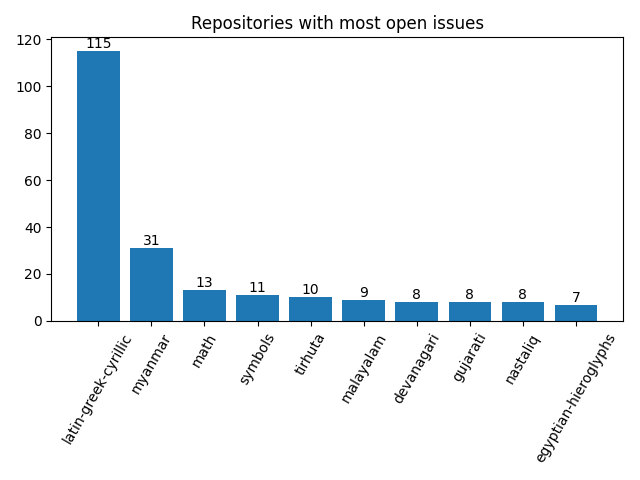
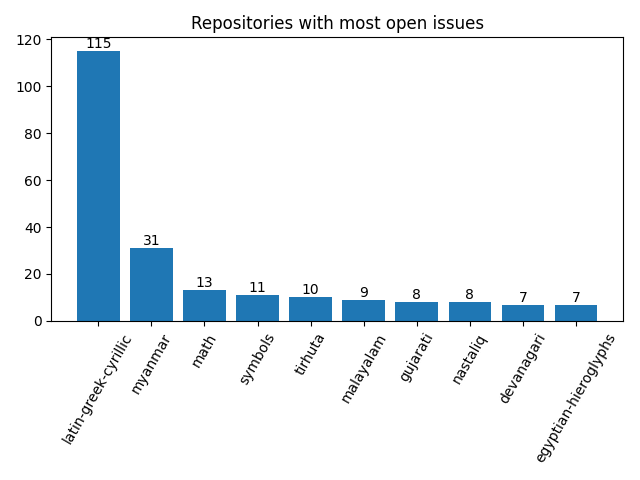
Apply automatic changes

diff --git a/docs/analytics.html b/docs/analytics.html
@@ -69,8 +69,8 @@ td .material-icons { display:inline-flex; vertical-align: top; font-size:1.1rem;
 						</tr>
 						<tr>
 							<td>Jan</td>
-							<td>15</td>
-							<td>3</td>
+							<td>20</td>
+							<td>5</td>
 						</tr>
 					</table>
 				</div>
@@ -124,12 +124,6 @@ td .material-icons { display:inline-flex; vertical-align: top; font-size:1.1rem;
 						</tr>
 						<tr>
 							<td>
-								<a href="http://github.com/notofonts/devanagari/issues">devanagari</a>
-							</td>
-							<td>8</td>
-						</tr>
-						<tr>
-							<td>
 								<a href="http://github.com/notofonts/gujarati/issues">gujarati</a>
 							</td>
 							<td>8</td>
@@ -139,6 +133,12 @@ td .material-icons { display:inline-flex; vertical-align: top; font-size:1.1rem;
 								<a href="http://github.com/notofonts/nastaliq/issues">nastaliq</a>
 							</td>
 							<td>8</td>
+						</tr>
+						<tr>
+							<td>
+								<a href="http://github.com/notofonts/devanagari/issues">devanagari</a>
+							</td>
+							<td>7</td>
 						</tr>
 						<tr>
 							<td>
@@ -161,13 +161,13 @@ td .material-icons { display:inline-flex; vertical-align: top; font-size:1.1rem;
 				<tr>
 					<td>1</td>
 					<td>
-						<a href="http://github.com/notofonts/armenian/issues">armenian</a>,  						<a href="http://github.com/notofonts/bamum/issues">bamum</a>,  						<a href="http://github.com/notofonts/brahmi/issues">brahmi</a>,  						<a href="http://github.com/notofonts/canadian-aboriginal/issues">canadian-aboriginal</a>,  						<a href="http://github.com/notofonts/chakma/issues">chakma</a>,  						<a href="http://github.com/notofonts/chorasmian/issues">chorasmian</a>,  						<a href="http://github.com/notofonts/deseret/issues">deseret</a>,  						<a href="http://github.com/notofonts/dogra/issues">dogra</a>,  						<a href="http://github.com/notofonts/duployan/issues">duployan</a>,  						<a href="http://github.com/notofonts/elbasan/issues">elbasan</a>,  						<a href="http://github.com/notofonts/ethiopic/issues">ethiopic</a>,  						<a href="http://github.com/notofonts/georgian/issues">georgian</a>,  						<a href="http://github.com/notofonts/glagolitic/issues">glagolitic</a>,  						<a href="http://github.com/notofonts/hanunoo/issues">hanunoo</a>,  						<a href="http://github.com/notofonts/kharoshthi/issues">kharoshthi</a>,  						<a href="http://github.com/notofonts/khudawadi/issues">khudawadi</a>,  						<a href="http://github.com/notofonts/lydian/issues">lydian</a>,  						<a href="http://github.com/notofonts/meetei-mayek/issues">meetei-mayek</a>,  						<a href="http://github.com/notofonts/miao/issues">miao</a>,  						<a href="http://github.com/notofonts/mongolian/issues">mongolian</a>,  						<a href="http://github.com/notofonts/multani/issues">multani</a>,  						<a href="http://github.com/notofonts/music/issues">music</a>,  						<a href="http://github.com/notofonts/nko/issues">nko</a>,  						<a href="http://github.com/notofonts/old-italic/issues">old-italic</a>,  						<a href="http://github.com/notofonts/oriya/issues">oriya</a>,  						<a href="http://github.com/notofonts/pahawh-hmong/issues">pahawh-hmong</a>,  						<a href="http://github.com/notofonts/phags-pa/issues">phags-pa</a>,  						<a href="http://github.com/notofonts/rejang/issues">rejang</a>,  						<a href="http://github.com/notofonts/saurashtra/issues">saurashtra</a>,  						<a href="http://github.com/notofonts/sogdian/issues">sogdian</a>,  						<a href="http://github.com/notofonts/sundanese/issues">sundanese</a>,  						<a href="http://github.com/notofonts/tai-le/issues">tai-le</a>,  						<a href="http://github.com/notofonts/tai-tham/issues">tai-tham</a>,  						<a href="http://github.com/notofonts/takri/issues">takri</a>,  						<a href="http://github.com/notofonts/tangsa/issues">tangsa</a>,  						<a href="http://github.com/notofonts/tangut/issues">tangut</a> 
+						<a href="http://github.com/notofonts/armenian/issues">armenian</a>,  						<a href="http://github.com/notofonts/bamum/issues">bamum</a>,  						<a href="http://github.com/notofonts/brahmi/issues">brahmi</a>,  						<a href="http://github.com/notofonts/canadian-aboriginal/issues">canadian-aboriginal</a>,  						<a href="http://github.com/notofonts/chakma/issues">chakma</a>,  						<a href="http://github.com/notofonts/chorasmian/issues">chorasmian</a>,  						<a href="http://github.com/notofonts/deseret/issues">deseret</a>,  						<a href="http://github.com/notofonts/dogra/issues">dogra</a>,  						<a href="http://github.com/notofonts/elbasan/issues">elbasan</a>,  						<a href="http://github.com/notofonts/ethiopic/issues">ethiopic</a>,  						<a href="http://github.com/notofonts/georgian/issues">georgian</a>,  						<a href="http://github.com/notofonts/glagolitic/issues">glagolitic</a>,  						<a href="http://github.com/notofonts/hanunoo/issues">hanunoo</a>,  						<a href="http://github.com/notofonts/kharoshthi/issues">kharoshthi</a>,  						<a href="http://github.com/notofonts/khudawadi/issues">khudawadi</a>,  						<a href="http://github.com/notofonts/lao/issues">lao</a>,  						<a href="http://github.com/notofonts/lydian/issues">lydian</a>,  						<a href="http://github.com/notofonts/meetei-mayek/issues">meetei-mayek</a>,  						<a href="http://github.com/notofonts/miao/issues">miao</a>,  						<a href="http://github.com/notofonts/mongolian/issues">mongolian</a>,  						<a href="http://github.com/notofonts/multani/issues">multani</a>,  						<a href="http://github.com/notofonts/music/issues">music</a>,  						<a href="http://github.com/notofonts/nko/issues">nko</a>,  						<a href="http://github.com/notofonts/old-italic/issues">old-italic</a>,  						<a href="http://github.com/notofonts/pahawh-hmong/issues">pahawh-hmong</a>,  						<a href="http://github.com/notofonts/phags-pa/issues">phags-pa</a>,  						<a href="http://github.com/notofonts/rejang/issues">rejang</a>,  						<a href="http://github.com/notofonts/saurashtra/issues">saurashtra</a>,  						<a href="http://github.com/notofonts/sogdian/issues">sogdian</a>,  						<a href="http://github.com/notofonts/sundanese/issues">sundanese</a>,  						<a href="http://github.com/notofonts/tai-le/issues">tai-le</a>,  						<a href="http://github.com/notofonts/tai-tham/issues">tai-tham</a>,  						<a href="http://github.com/notofonts/takri/issues">takri</a>,  						<a href="http://github.com/notofonts/tangsa/issues">tangsa</a>,  						<a href="http://github.com/notofonts/tangut/issues">tangut</a> 
 					</td>
 				</tr>
 				<tr>
 					<td>2</td>
 					<td>
-						<a href="http://github.com/notofonts/coptic/issues">coptic</a>,  						<a href="http://github.com/notofonts/grantha/issues">grantha</a>,  						<a href="http://github.com/notofonts/khojki/issues">khojki</a>,  						<a href="http://github.com/notofonts/old-hungarian-ui/issues">old-hungarian-ui</a>,  						<a href="http://github.com/notofonts/old-turkic/issues">old-turkic</a>,  						<a href="http://github.com/notofonts/siddham/issues">siddham</a>,  						<a href="http://github.com/notofonts/sign-writing/issues">sign-writing</a>,  						<a href="http://github.com/notofonts/tagalog/issues">tagalog</a>,  						<a href="http://github.com/notofonts/tamil/issues">tamil</a>,  						<a href="http://github.com/notofonts/tifinagh/issues">tifinagh</a> 
+						<a href="http://github.com/notofonts/coptic/issues">coptic</a>,  						<a href="http://github.com/notofonts/duployan/issues">duployan</a>,  						<a href="http://github.com/notofonts/grantha/issues">grantha</a>,  						<a href="http://github.com/notofonts/khojki/issues">khojki</a>,  						<a href="http://github.com/notofonts/old-hungarian-ui/issues">old-hungarian-ui</a>,  						<a href="http://github.com/notofonts/old-turkic/issues">old-turkic</a>,  						<a href="http://github.com/notofonts/oriya/issues">oriya</a>,  						<a href="http://github.com/notofonts/siddham/issues">siddham</a>,  						<a href="http://github.com/notofonts/sign-writing/issues">sign-writing</a>,  						<a href="http://github.com/notofonts/tagalog/issues">tagalog</a>,  						<a href="http://github.com/notofonts/tamil/issues">tamil</a>,  						<a href="http://github.com/notofonts/tifinagh/issues">tifinagh</a> 
 					</td>
 				</tr>
 				<tr>
@@ -191,19 +191,19 @@ td .material-icons { display:inline-flex; vertical-align: top; font-size:1.1rem;
 				<tr>
 					<td>6</td>
 					<td>
-						<a href="http://github.com/notofonts/arabic/issues">arabic</a>,  						<a href="http://github.com/notofonts/bengali/issues">bengali</a>,  						<a href="http://github.com/notofonts/dives-akuru/issues">dives-akuru</a>,  						<a href="http://github.com/notofonts/modi/issues">modi</a>,  						<a href="http://github.com/notofonts/old-hungarian/issues">old-hungarian</a>,  						<a href="http://github.com/notofonts/syriac/issues">syriac</a> 
+						<a href="http://github.com/notofonts/arabic/issues">arabic</a>,  						<a href="http://github.com/notofonts/bengali/issues">bengali</a>,  						<a href="http://github.com/notofonts/dives-akuru/issues">dives-akuru</a>,  						<a href="http://github.com/notofonts/modi/issues">modi</a>,  						<a href="http://github.com/notofonts/syriac/issues">syriac</a> 
 					</td>
 				</tr>
 				<tr>
 					<td>7</td>
 					<td>
-						<a href="http://github.com/notofonts/egyptian-hieroglyphs/issues">egyptian-hieroglyphs</a>,  						<a href="http://github.com/notofonts/hebrew/issues">hebrew</a>,  						<a href="http://github.com/notofonts/kaithi/issues">kaithi</a>,  						<a href="http://github.com/notofonts/kannada/issues">kannada</a> 
+						<a href="http://github.com/notofonts/devanagari/issues">devanagari</a>,  						<a href="http://github.com/notofonts/egyptian-hieroglyphs/issues">egyptian-hieroglyphs</a>,  						<a href="http://github.com/notofonts/hebrew/issues">hebrew</a>,  						<a href="http://github.com/notofonts/kaithi/issues">kaithi</a>,  						<a href="http://github.com/notofonts/kannada/issues">kannada</a>,  						<a href="http://github.com/notofonts/old-hungarian/issues">old-hungarian</a> 
 					</td>
 				</tr>
 				<tr>
 					<td>8</td>
 					<td>
-						<a href="http://github.com/notofonts/devanagari/issues">devanagari</a>,  						<a href="http://github.com/notofonts/gujarati/issues">gujarati</a>,  						<a href="http://github.com/notofonts/nastaliq/issues">nastaliq</a> 
+						<a href="http://github.com/notofonts/gujarati/issues">gujarati</a>,  						<a href="http://github.com/notofonts/nastaliq/issues">nastaliq</a> 
 					</td>
 				</tr>
 				<tr>
@@ -234,11 +234,11 @@ td .material-icons { display:inline-flex; vertical-align: top; font-size:1.1rem;
 
 									<a href="http://github.com/notofonts/malayalam/issues">malayalam</a>: 9, 
 
-									<a href="http://github.com/notofonts/devanagari/issues">devanagari</a>: 8, 
-
 									<a href="http://github.com/notofonts/gujarati/issues">gujarati</a>: 8, 
 
 									<a href="http://github.com/notofonts/nastaliq/issues">nastaliq</a>: 8, 
+
+									<a href="http://github.com/notofonts/devanagari/issues">devanagari</a>: 7, 
 
 									<a href="http://github.com/notofonts/hebrew/issues">hebrew</a>: 7, 
 
@@ -252,11 +252,11 @@ td .material-icons { display:inline-flex; vertical-align: top; font-size:1.1rem;
 
 									<a href="http://github.com/notofonts/telugu/issues">telugu</a>: 4, 
 
+									<a href="http://github.com/notofonts/oriya/issues">oriya</a>: 2, 
+
 									<a href="http://github.com/notofonts/tamil/issues">tamil</a>: 2, 
 
-									<a href="http://github.com/notofonts/armenian/issues">armenian</a>: 1, 
-
-									<a href="http://github.com/notofonts/oriya/issues">oriya</a>: 1
+									<a href="http://github.com/notofonts/armenian/issues">armenian</a>: 1
 							</td>
 						</tr>
 						<tr>
@@ -298,6 +298,8 @@ td .material-icons { display:inline-flex; vertical-align: top; font-size:1.1rem;
 
 									<a href="http://github.com/notofonts/coptic/issues">coptic</a>: 2, 
 
+									<a href="http://github.com/notofonts/duployan/issues">duployan</a>: 2, 
+
 									<a href="http://github.com/notofonts/khojki/issues">khojki</a>: 2, 
 
 									<a href="http://github.com/notofonts/siddham/issues">siddham</a>: 2, 
@@ -314,9 +316,9 @@ td .material-icons { display:inline-flex; vertical-align: top; font-size:1.1rem;
 
 									<a href="http://github.com/notofonts/chakma/issues">chakma</a>: 1, 
 
-									<a href="http://github.com/notofonts/duployan/issues">duployan</a>: 1, 
-
 									<a href="http://github.com/notofonts/hanunoo/issues">hanunoo</a>: 1, 
+
+									<a href="http://github.com/notofonts/lao/issues">lao</a>: 1, 
 
 									<a href="http://github.com/notofonts/meetei-mayek/issues">meetei-mayek</a>: 1, 
 
@@ -356,7 +358,7 @@ td .material-icons { display:inline-flex; vertical-align: top; font-size:1.1rem;
 
 									<a href="http://github.com/notofonts/kaithi/issues">kaithi</a>: 7, 
 
-									<a href="http://github.com/notofonts/old-hungarian/issues">old-hungarian</a>: 6, 
+									<a href="http://github.com/notofonts/old-hungarian/issues">old-hungarian</a>: 7, 
 
 									<a href="http://github.com/notofonts/kawi/issues">kawi</a>: 4, 
 
